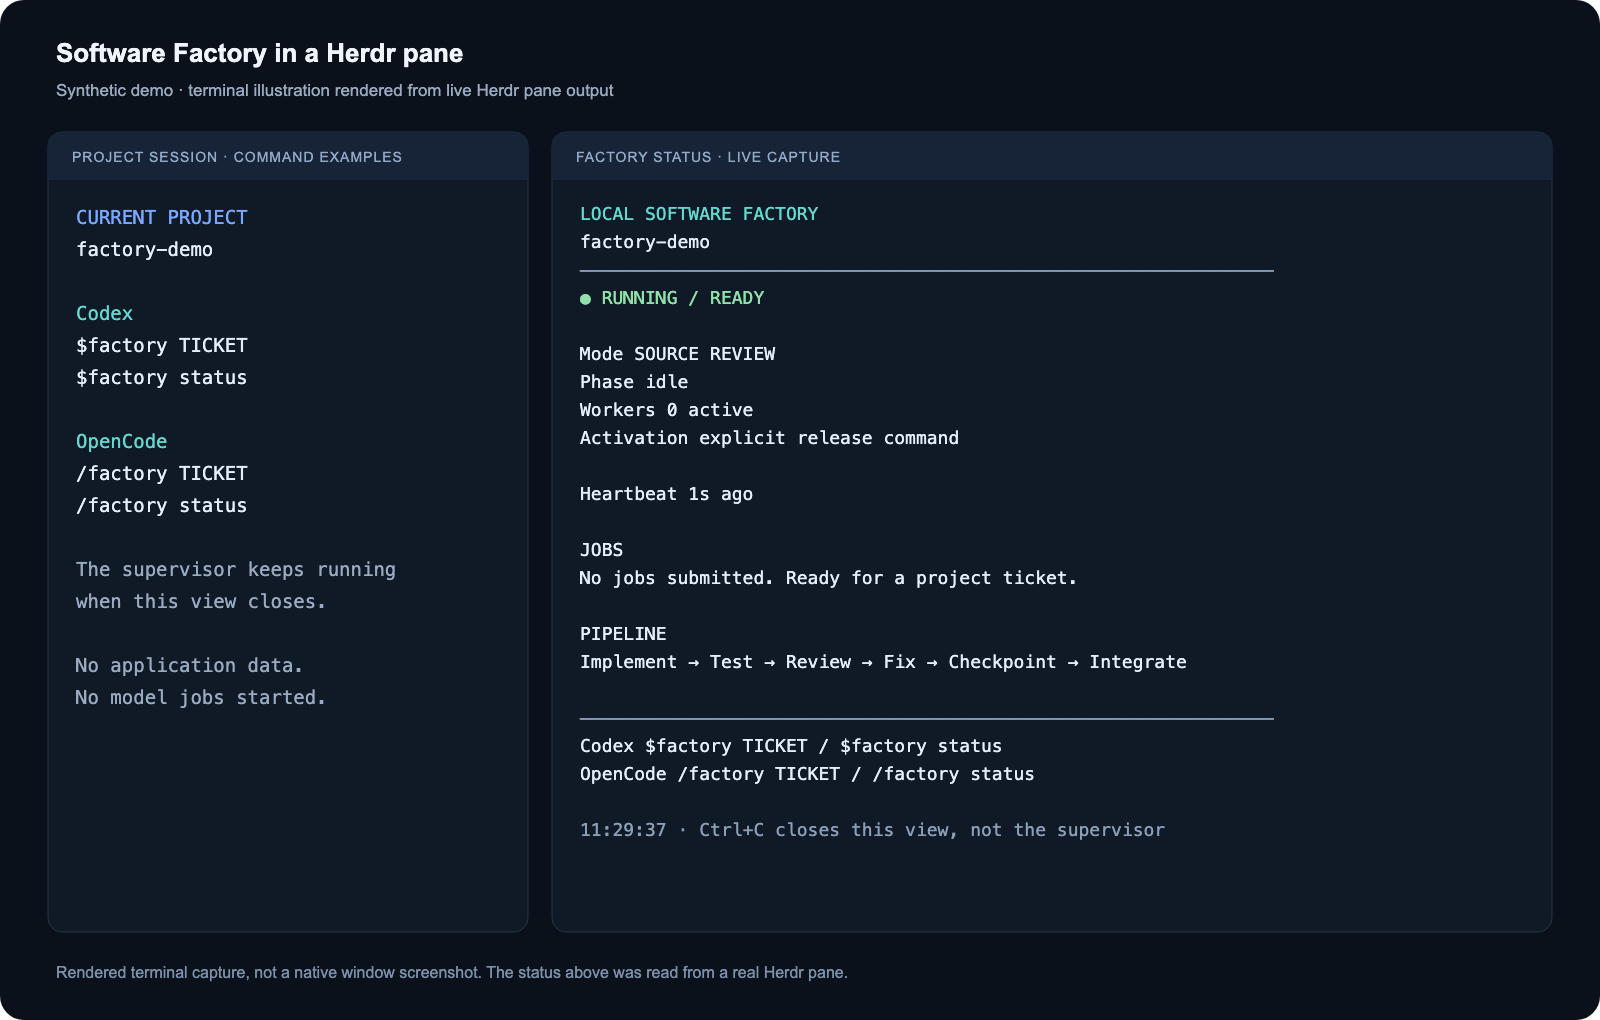
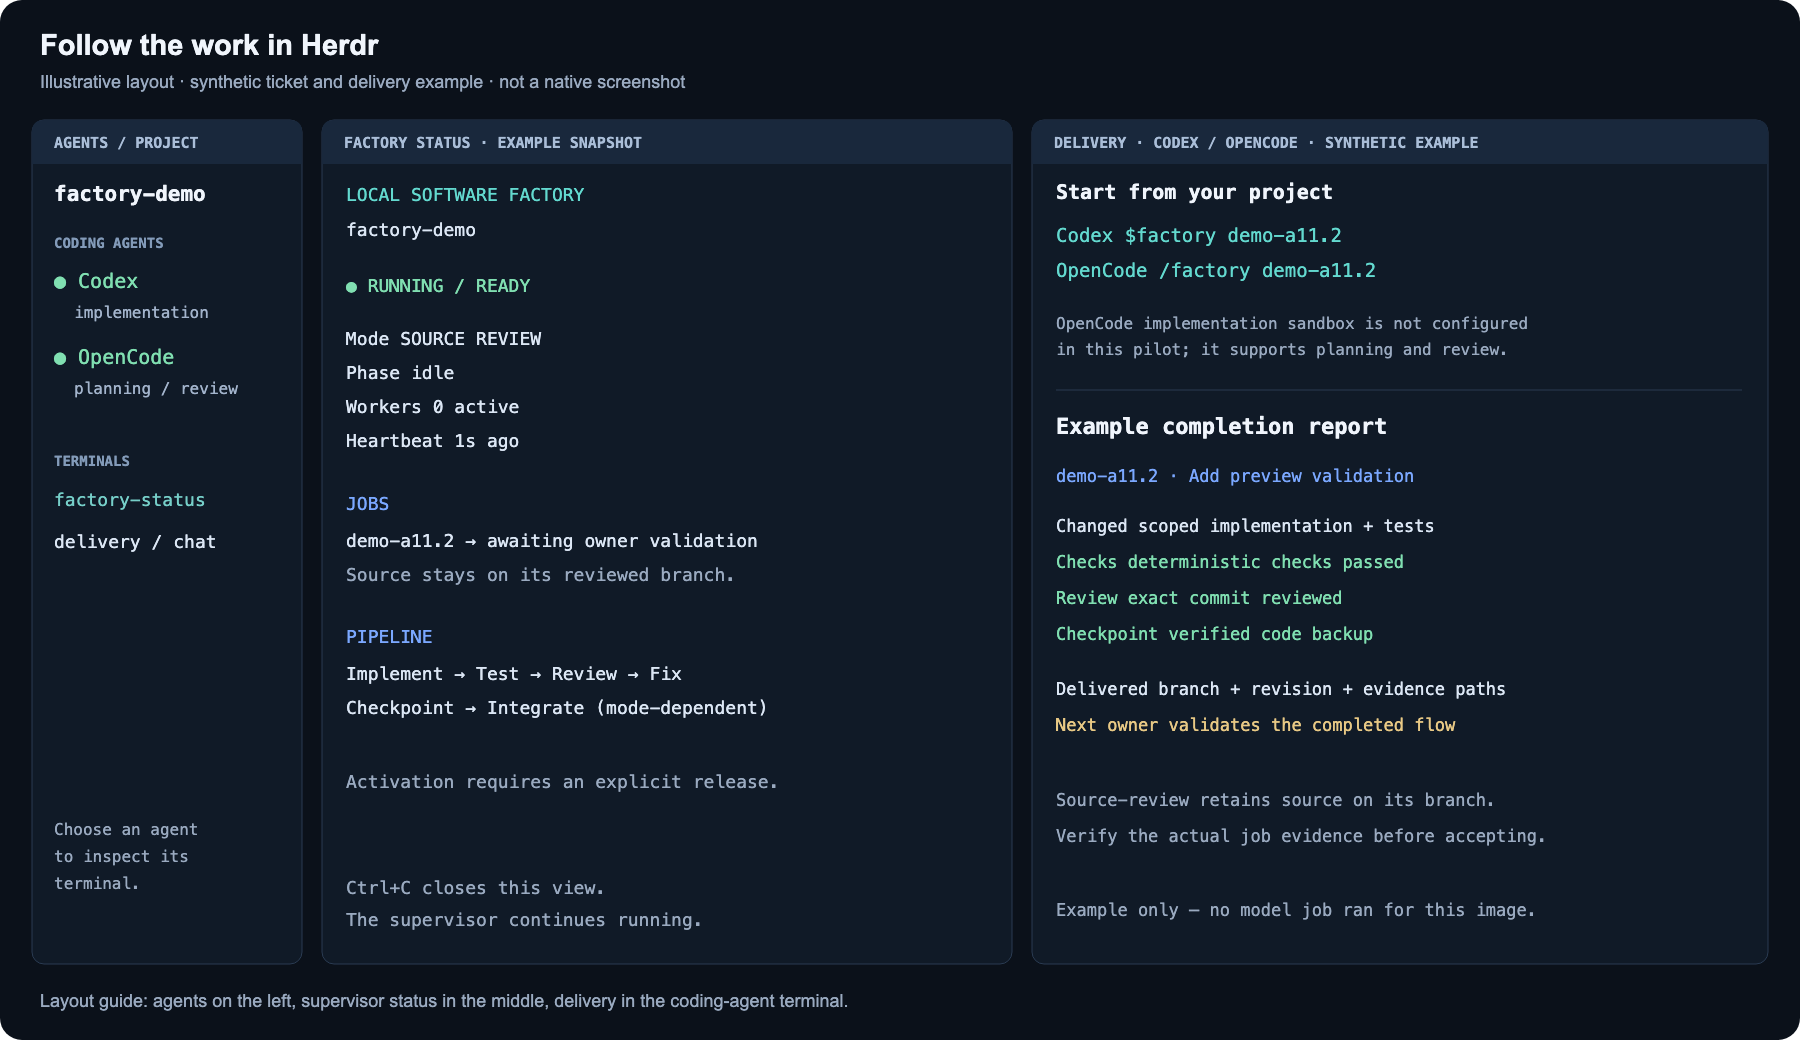
docs: add Scotty screenshot and expand Herdr workflow illustration

diff --git a/README.md b/README.md
@@ -31,12 +31,19 @@ See the [workflow guide and runnable synthetic graph](docs/beads-scotty-workflow
 You can also ask for `$factory graph` in Codex or `/factory graph` in OpenCode.
 The demo creates real Beads relations for Scotty without starting model workers.
 
+[![Scotty dependency graph with six synthetic Beads tickets and blocking, parent-child, and related edges](docs/images/scotty-dependency-graph.png)](docs/images/scotty-dependency-graph.png)
+
+*Actual Scotty screenshot of the synthetic demo project, with native Beads
+relations and read-only mode enabled.*
+
 ## See it in Herdr
 
-[![A Herdr status-pane illustration showing a running factory, source-review mode, heartbeat, jobs, and pipeline stages](docs/images/herdr-factory-status.png)](docs/images/herdr-factory-status.png)
+[![Illustrative Herdr layout with an agents panel, factory status, and a Codex or OpenCode delivery terminal](docs/images/herdr-factory-status.png)](docs/images/herdr-factory-status.png)
 
-*Terminal illustration rendered from live output captured in a real Herdr pane.
-The project is synthetic; this is not a native window screenshot.*
+*Illustrative Herdr layout: agents on the left, factory status in the middle,
+and a delivery report in the coding-agent terminal on the right. The ticket,
+status, and delivery report are synthetic examples; this is not a native window
+screenshot, and no model job ran to produce this image.*
 
 Keep your coding session in one pane and factory status in another. From the
 factory checkout, run:
